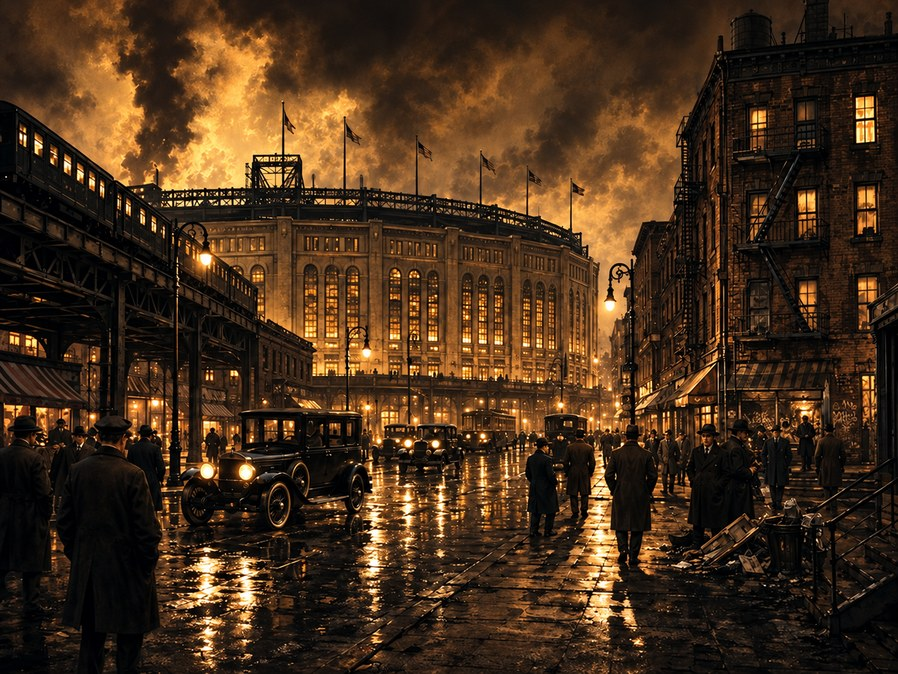
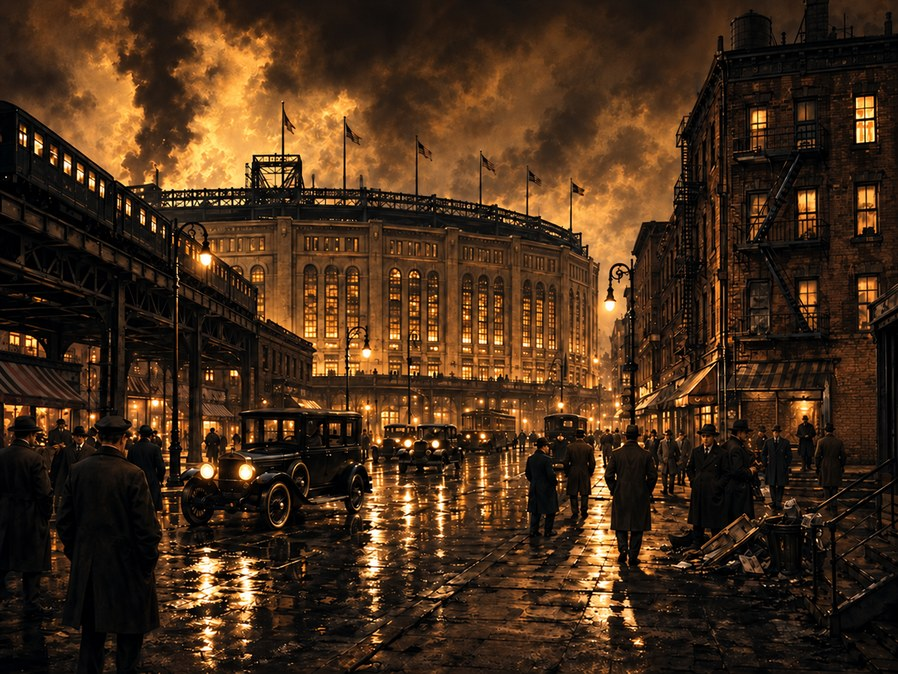
Card art: the Bronx without graffiti, the Welsher without text or a brand
Nick's replacements for the two plates flagged in review: no modern
graffiti on the Bronx wall; no garbled contract wording or real whiskey
label on the Welsher. Sized like the rest (898 px wide, JPEG q88).

Claude-Session: https://claude.ai/code/session_01DmX1hTZsDvcFGE8USNKQPm

diff --git a/respect-endgame-handoff.md b/respect-endgame-handoff.md
@@ -163,7 +163,8 @@ Every item on the old "When Nick says go" list is done, art first:
   Marks at -2, Borough cards without the stack or the Nod. The titles drop "The": "The Precinct
   Captain" needs 8pt to fit the title box, so all four read Precinct Captain, Alderman, Judge, Mayor.
   The art lift drops from 1.2 to the Jobs deck's 1.1, since the plates are bright now (Nick redrew the
-  four Borough plates brighter the same day: 39 to 55 became 52 to 67). Every card measures 88mm with no overflow.
+  four Borough plates brighter the same day: 39 to 55 became 52 to 67); his second Bronx drops a patch of
+  modern graffiti, and his second Welsher drops the garbled contract text and the real brand label. Every card measures 88mm with no overflow.
 - **Playbooks, Town Planner, Federal Crackdown Tracker:** the Beg, Rat and Bribe rows; the crown
   plaque and the Respect line; 40 combined. Playbook rows measure identical to before.
 - **The Almanac:** The Cheap Rungs, Bury the Card, The Refund (which also had a stale "pays 3
